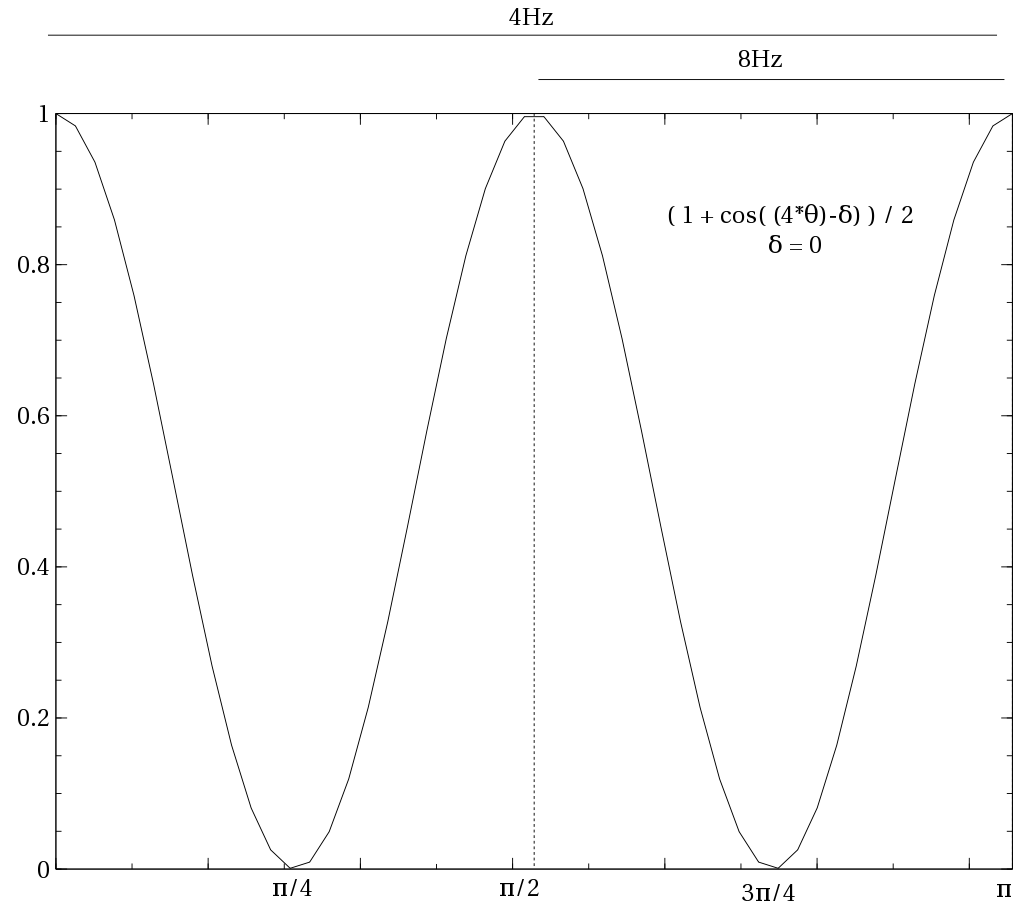
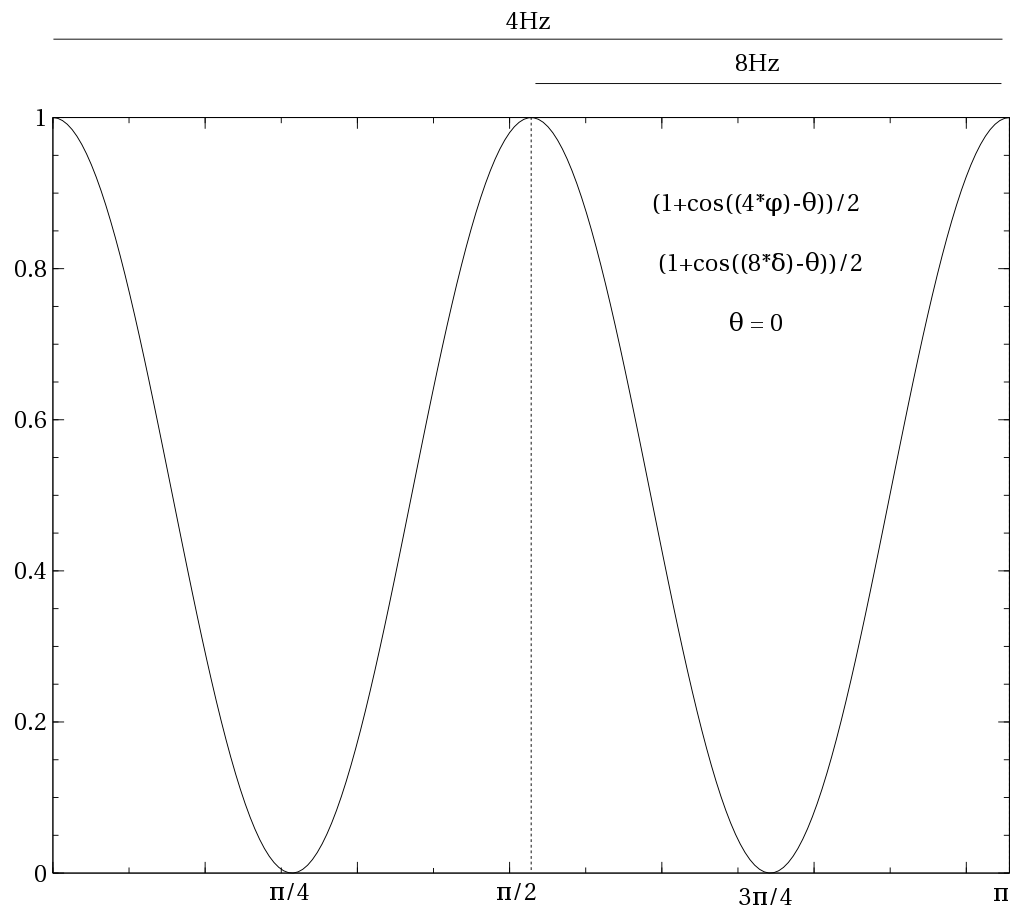
sc22: edits to POL2 overview to be compatable with polpack docs

diff --git a/docs/sc/022/sc22_pol2_overview.tex b/docs/sc/022/sc22_pol2_overview.tex
@@ -45,6 +45,16 @@ The linear Polarised Intensity (I$_{p}$) can be described as:
 I_{p} = \sqrt{Q^{2}+U^{2}}
 \end{equation}
 
+with Q and U related to the polarisation angle ($\theta$) 
+and the the Polarised intensity by:
+
+\begin{equation}
+Q = I_{p} \text{cos}(\theta)
+\end{equation}
+\begin{equation}
+U = I_{p} \text{sin}(\theta)
+\end{equation}
+
 where
 
 \begin{equation}
@@ -73,24 +83,48 @@ that cover the full field of SCUBA-2:
 \item a second wire-grid polariser used as an analyzer
 \end{enumerate}
 
-
 These components can be seen in Figure~\ref{fig:pol2sc2}.  A schematic
 of POL-2 is given in Figure~\ref{fig:pol2sc2diagram}.
 
+\begin{figure}[t!]
+\begin{center}
+\includegraphics[width=0.8\linewidth]{singopt.png}
+\caption [POL-2 optical components]{ The main optical components in a
+  typical single-beam imaging polarimeter such as POL-2 (taken from
+  sun233).}
+\label{fig:pol2sc2diagram}
+\end{center}
+\end{figure}
 
 Rotating the HWP rotates any linearly polarised component of incoming
 radiation. The HWP rotates this incoming linear polarisation with
-twice the speed of the HWP angle ($\theta$) producing the
+twice the speed of the HWP angle ($\delta$) producing the
 \emph{effective analyzer} position ($\phi$), such that:
 
 
 \begin{equation}
-\phi = 2 \theta
+\phi = 2 \delta
 \end{equation}
 
 
 The rotating linearly polarised component is transmitted or reflected
 by the grid, causing a modulation in the transmitted intensity.
+The amplitude of the polarised component transmitted by the polariser is
+$\sim$cos(2$\phi$) while the power is cos$^{2}$(2$\phi$).
+
+\begin{figure}[t!]
+\begin{center}
+\includegraphics[width=0.95\linewidth]{hwp-modulation-basic.png}
+\label{fig:hwp-modulation-basic}
+\caption [Modulation by the HWP - basic description]{ Left: If there
+  was a single rotating analyser this would be the resulting curve of 
+  the power transmitted of the linearly polarised component. 
+  Right: With the HWP the linearly polarised component is
+  rotated at twice the speed. It may be useful to remind the reader of 
+  the trigonometric identity: \\ cos$^{2}$x = 1/2(1+cos(2x))}
+\end{center}
+\end{figure}
+
 
 The radiation passing through the polarimeter is detected by
 SCUBA-2. The detected intensity (I$_{detected}$) is a combination of
@@ -98,32 +132,21 @@ SCUBA-2. The detected intensity (I$_{detected}$) is a combination of
 linearly polarised intensity (I$_{p}$). This detected intensity can be
 described by:
 
-
 \begin{equation}
-I_{detected} = \frac{I_{unpolarised}}{2}+ I_{p}\cdot\left(\frac{1+\cos(4\theta - \delta)}{2} \right)
+I_{detected} = \frac{I_{unpolarised}}{2}+ I_{p}\cdot\left(\frac{1+\cos(4\phi - \theta)}{2} \right)
 \end{equation}
 
-with the above equation being in terms of the HWP angle. This can also
-be expressed in terms of the effective analyzer angle (as is provided
-in the POLPACK documentation):
-
+with the above equation being in terms of the effective analyzer 
+angle, $\phi$ (as is provided in the POLPACK documentation) and 
+the angle of the polarisation ($\theta)$. 
+This can also be expressed in terms of the  the HWP angle ($\delta$). 
 
 \begin{equation}
-I_{detected} = \frac{I_{unpolarised}}{2}+ I_{p}\cdot\left(\frac{1+\cos(2\phi - \delta)}{2} \right)
+I_{detected} = \frac{I_{unpolarised}}{2}+ I_{p}\cdot\left(\frac{1+\cos(8\delta - \theta)}{2} \right)
 \end{equation}
 
-where $\delta$ is the angle of the polarised signal.
 
 
-\begin{figure}[t!]
-\begin{center}
-\includegraphics[width=0.8\linewidth]{singopt.png}
-\label{fig:pol2sc2diagram}
-\caption [POL-2 optical components]{ The main optical components in a
-  typical single-beam imaging polarimeter such as POL-2 (taken from
-  sun233).}
-\end{center}
-\end{figure}
 
 \subsection*{The Half-Wave Plate}
 
@@ -148,7 +171,7 @@ atmosphere is stable on the order of 2Hz and can be removed.
 \includegraphics[width=0.7\linewidth]{hwp-modulation.png}
 \label{fig:hwpmodulation}
 \caption [Attenuation of signal by HWP]{The incoming polarised
-  radiation (with a polarised angle, $\delta$, of zero) is attenuated
+  radiation (with a polarised angle, $\theta$, of zero) is attenuated
   by the HWP.  The HWP rotates at 2Hz (through $2\pi$) so we see the
   signal is modulated at 8Hz as the instrument scans at
   8\si{\arcsecond}/s. }
@@ -293,11 +316,11 @@ Half-wave plate rotation frequency& \SI{2}{Hz}\\
  R$_{t}$ (turn radius) & 99\si{\arcsecond}\\
  R$_{a}$ (nominal avoidance radius) & 77\si{\arcsecond}\\
 \hline
-\label{tab:scanpar}
 \end{tabular}
 \caption{The scan parameters used in the POLCV\_DAISY
   mode. \textdagger This radius is \emph{not} the size of the
   resulting map. }
+\label{tab:scanpar}
 \end{center}
 \end{table}
 
@@ -305,11 +328,11 @@ Half-wave plate rotation frequency& \SI{2}{Hz}\\
 \begin{figure}[t!]
 \begin{center}
 \includegraphics[width=0.6\linewidth]{POLCV_DAISY_schematic_detailed.png}
-\label{fig:scandetail}
 \caption [Detail of POL-2 Scan Pattern]{Detail of
   POLCV\_DAISY. $R_{0}$ is the map pattern radius, $R_{t}$ the turn
   radius, and $R_{a}$ is the nominal avoidance radius. For more
   details see Table~\ref{tab:scanpar}.}
+\label{fig:scandetail}
 \end{center}
 \end{figure}
 
@@ -423,7 +446,8 @@ value for the Flux Conversion Factor (FCF) is required.
 The resulting map may have the FCF applied to convert it into units of
 Janskys. As is recommended with SCUBA-2 observing, it is advisable to
 check that the FCF value applied to the data is sensible (and must be
-done manually).
+done manually). For more details see 
+\cref{Chapter}{sec:pol2map-fcf}{POL-2 FCFs}.
 
 
 

diff --git a/docs/sc/022/sc22_pol2_image_display.tex b/docs/sc/022/sc22_pol2_image_display.tex
@@ -19,16 +19,16 @@ the drop-down menu option \texttt{File / Open} to load the file
 mycat.FIT. This should then populate the lower part of the window with
 the contents of this polarimetry catalogue file.  Each of the vectors
 in this file will be automatically overlaid on the main image window
-(see Figure~\ref{fig:gaia-plot-vectors1}).
+(see Figure \ref{fig:gaiavectorsopen}).
 
 \begin{figure}[t!]
 \begin{center}
 \includegraphics[width=0.46\linewidth]{sc22-gaia-plot-vectors-1.png}
 \includegraphics[width=0.46\linewidth]{sc22-gaia-plot-vectors-3.png}
-\label{fig:gaia-plot-vectors1}
 \caption [Over Plotting Vectors in GAIA]{
-  \small Left: Opening up the polarimetry toolbox in GAIA. Right: The initial POL-2
-vectors overplotted in GAIA.
+  Left: Opening up the polarimetry toolbox in GAIA. Right: The initial POL-2
+  vectors overplotted in GAIA.
+\label{fig:gaiavectorsopen}
 }
 \end{center}
 \end{figure}
@@ -57,25 +57,26 @@ which have an associated total intensity (column I) less than 10 times
 the associated error value for that intensity (column DI). To remove
 all of these extraneous vectors, either press control-X or use the
 drop-down menu option \texttt{Edit / Cut}.  This should leave just a
-small number of vectors clustering around the target object.
+small number of vectors clustering around the target object (see
+Figure \ref{fig:gaiavectorssecond}).
 
 \begin{figure}[t!]
 \begin{center}
 \includegraphics[width=0.46\linewidth]{sc22-gaia-plot-vectors-4.png}
 \includegraphics[width=0.46\linewidth]{sc22-gaia-plot-vectors-6.png}
-\label{fig:gaia-plot-vectors2}
 \caption [Selecting Vectors in GAIA]{Left: specifying vectors
   to display via the expression \$I/\$DI$>$10. This will only plot
   vectors with an \SI{850}{\micro\metre} intensity signal-to-noise
   ratio grater than 10 in GAIA. To ensure thatthis is specified,
   ensure you press the carriage return after entering the expression.
 }
+\label{fig:gaiavectorssecond}
 \end{center}
 \end{figure}
 
 Zooming in on the central region of the map, it can already be seen
 that the level of vector ordering (and hence polarization) is quite
-low (see Figure~\ref{fig:gaia-plot-vectors3}). If needed it is
+low (see Figure \ref{fig:gaiavectorsfinal}). If needed it is
 possible to change the scaling by selecting the Rendering tab in the
 GAIA: Polarimetry window, and increasing the vector scale.
 
@@ -84,11 +85,11 @@ GAIA: Polarimetry window, and increasing the vector scale.
 \begin{center}
 \includegraphics[width=0.44\linewidth]{sc22-gaia-plot-vectors-5.png}
 \includegraphics[width=0.52\linewidth]{sc22-gaia-plot-vectors-7.png}
-\label{fig:gaia-plot-vectors3}
 \caption [Over Plotting Vectors in GAIA]{ Left: Selected vectors are
   marked in blue in this example, Right: after removal of selected
   vectors all that remains are the vectors on the (zoomed) regions
-  where \$I/\$DI$>$10.  }
+  where \$I/\$DI $>$ 10.}
+\label{fig:gaiavectorsfinal}
 \end{center}
 \end{figure}
 
@@ -209,9 +210,9 @@ Convert the map into PDF file and remove blank margins (if required):
 \begin{figure}[t!]
 \begin{center}
 \includegraphics[width=0.75\linewidth]{sc22-kappa-plots-plot1.png}
-\label{fig:kappa-plot1}
 \caption [Vector map with polplot]{ Result from Example 1: Producing a
   vector map with no background using polplot.}
+\label{fig:kappa-plot1}
 \end{center}
 \end{figure}
 

diff --git a/docs/sc/022/sc22_run_pol2map.tex b/docs/sc/022/sc22_run_pol2map.tex
@@ -27,7 +27,8 @@ package started (see \cref{Section}{sec:starinit}{Initialising
 
 This chapter describes how to run the pol2map to first produce an
 initial I map and then again to produce the final I, Q, U maps and
-vector catalogue.
+vector catalogue as described in Section \ref{sec:how-step1}
+(this is refered to as ``run 1'' in Figure \ref{fig:pol2drflow}).
 
 To run pol2map, values should normally be supplied for the following
 command-line parameters\footnote{Note the distinction between
@@ -85,7 +86,9 @@ the parameter if no value is supplied on the command line):
   TRUE). [!]
 \end{aligndesc}
 
-when the output intensity image is used to produce the final I, Q, U
+when the pol2map is used for a secon time, as discussed in section 
+\ref{sec:how-step23} (this is refered to as ``run 2'' and ``run 3''
+in Figure \ref{fig:pol2drflow}), to sproduce the final I, Q, U
 maps and vector catalogues additional command-line parameters are
 required:
 
@@ -132,6 +135,7 @@ behaviour in various ways. To see a full list, do:
 
 
 \section{\xlabel{how-step1}pol2map - producing the initial I map.}
+\label{sec:how-step1}
 
 As discussed in \cref{Chapter}{sec:dr}{POL-2 Data Reduction - The
   Theory} pol2map must first be run on the raw data to produce an
@@ -191,8 +195,7 @@ Calculating Q, U and I time streams from raw analysed intensity data...
 
 >>>>   Making I map from 20160125_00043_0003...
 
-   Using pre-calculated pointing corrections of (0.0,0.0) arc-seconds
-   Re-using previously created map 'maps/20160125_00043_0003_imap'
+Storing pointing corrections of (0.0,0.0) arc-seconds for future use
 
 >>>>   Making I map from 20160112_00056_0003...
 
@@ -214,7 +217,8 @@ The files and folders produced in this reduction are:
   starlink tasks behind the scenes to perform the bulk of the work.
 
 \item[\texttt{qudata/}] A folder containing the I, Q and U time-series data
-  for each sub array for each observation.
+  for each sub array for each observation (these are produced by 
+  calcqu see Section \cref{Chapter}{sec:calcqu}{CALCQU}.
 
 \item[\texttt{maps/}] A folder containing the individual I maps from
   each separate observation \texttt{$\_$imap.sdf}.
@@ -267,7 +271,7 @@ s8b20160112_00056_0003_UT.sdf  s8c20160112_00059_0003_UT.sdf  s8d20160125_00043_
 
 
 \section{\xlabel{how-step23}pol2map - producing the I, Q, U maps and catalogue}
-
+\label{sec:how-step23}
 
 As discussed in \cref{Chapter}{sec:dr}{POL-2 Data Reduction - The
   Theory}, the I map output from the initial run of pol2map is used to
@@ -369,9 +373,9 @@ The output of this final run of pol2map is as follows:
   maps from each separate observation \texttt{$\_$Imap.sdf},
   \texttt{$\_$Qmap.sdf} and \texttt{$\_$Umap.sdf}.
 
-\item[\texttt{CCDPACK.LOG}] Output log containing information produced
-  as pol2map relies on the CCDPACK command MAKEMOS to combine POL-2
-  data.
+%\item[\texttt{CCDPACK.LOG}] Output log containing information produced
+%  as pol2map relies on the CCDPACK command MAKEMOS to combine POL-2
+%  data.
 
 \item[\texttt{uext.sdf}] The intensity of the radiation linearly
   polarised in the direction 45$^{\circ }$ to the reference plane,
@@ -382,11 +386,6 @@ The output of this final run of pol2map is as follows:
   the I map.
 
 \end{aligndesc}
-
-
-
-
-
 
 
 \begin{figure}[t!]

diff --git a/docs/sc/022/sc22_pol2_pol2map.tex b/docs/sc/022/sc22_pol2_pol2map.tex
@@ -13,11 +13,11 @@ referred to as ``Run 1'', ``Run 2'' and ``Run 3'' in Figure~\ref{fig:pol2drflow}
 \begin{figure}[t!]
 \begin{center}
 \includegraphics[width=1.5\linewidth]{pol2map_flow.eps}
-\label{fig:pol2drflow}
 \caption [POL-2 Data Flow]{ The data flow of the POL-2 data reduction
   method is presented. In this example, three POL-2 observations are
   reduced and combined in various stages and combination to produce I,
   Q and U maps and a vector catalogue.  }
+\label{fig:pol2drflow}
 \end{center}
 \end{figure}
 
@@ -55,6 +55,8 @@ observation in future. If no reference map is supplied, the I map
 created from the first observation defines the expected source
 position, and is compared with later maps to determine their pointing
 corrections.
+
+This step uses a PCA threshold of 50 (see \ref{sec:pca} for more details):
 
 \texttt{pca.pcathresh = -50}
 
@@ -94,10 +96,24 @@ pre-processing steps to clean the data, solves for multiple signal
 components using an iterative algorithm, and bins the resulting
 time-series data to produce a final science map.
 
+In pol2map the map-maker is used in conjunction with CALCQU (see 
+section \ref{sec:calcqu}) to produce maps of Q and U, as well as I.
 
+\section{\xlabel{calcqu}CALCQU}
+\label{sec:calcqu}
+
+In addition to the POl-2 data reduction beulding on the
+existing SCUBA-2 map-maker, pol2map also relises on the command 
+SMURF:CALQU.
+
+This CALCQU tool creates Q and U values from a set of POL-2 time 
+series data files. The supplied time series data files are first 
+flat-fielded, cleaned and concatenated, before being used to create 
+the Q and U values. 
 
 
 \section{\xlabel{pca}PCA}
+\label{sec:pca}
 
 One difference in the reduction of SCUBA-2 data and POL-2 data is the
 method used to remove the sky background.  The sky background is usually
